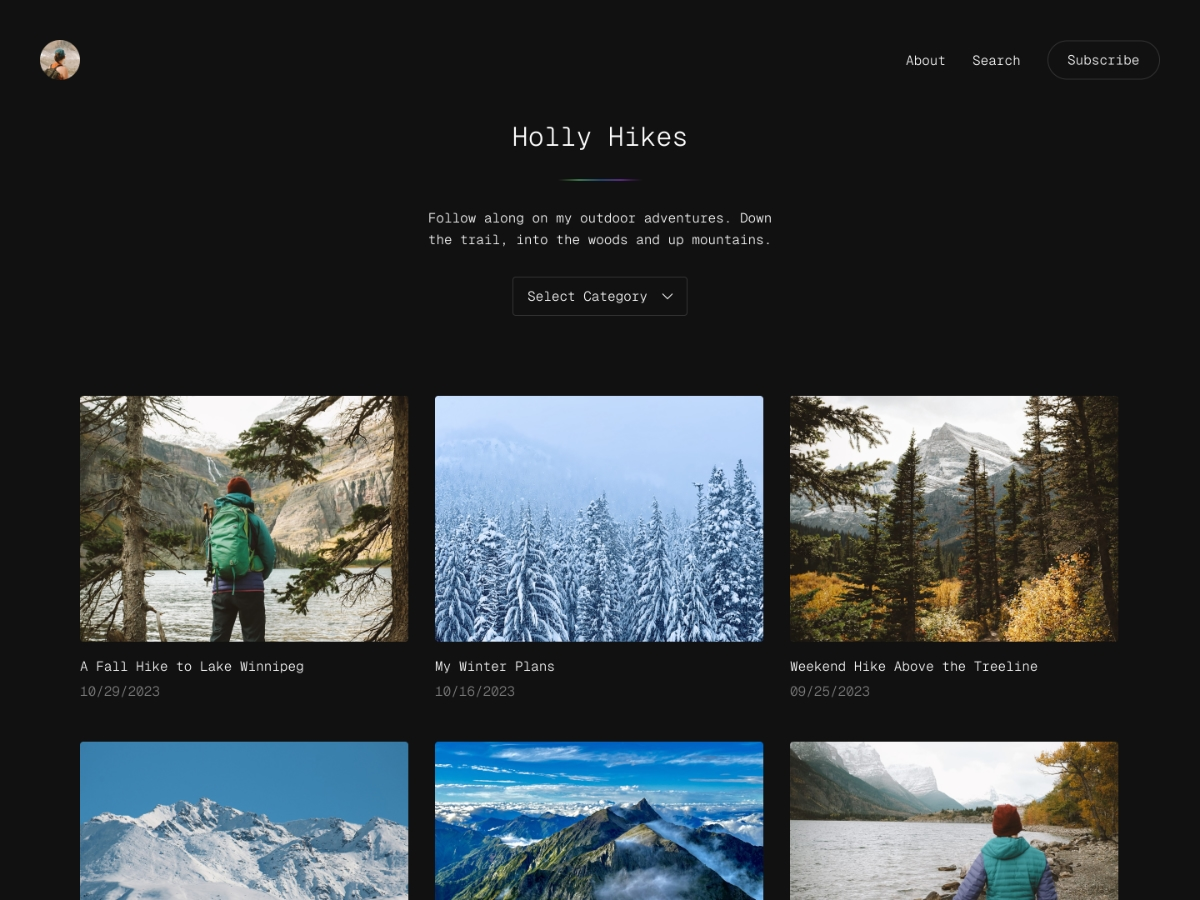
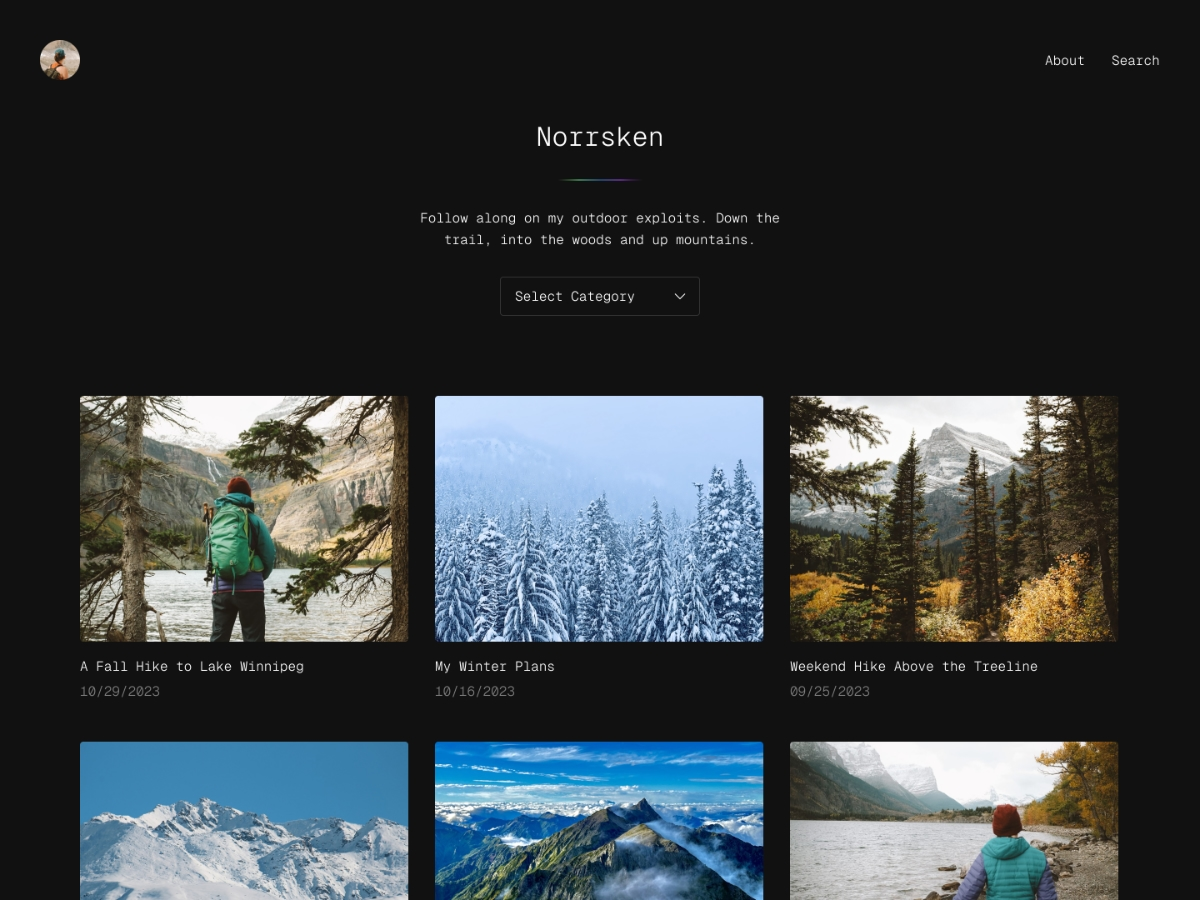
Theme meta, inverted style

diff --git a/style.css b/style.css
@@ -2,7 +2,7 @@
 Theme Name: Norrsken
 Text Domain: norrsken
 Version: 1.0.0
-Description: 
+Description: Norrsken is a simple block theme for blogs, designed to be an archive for all your digital things.
 Tags: one-column, custom-colors, custom-menu, custom-logo, editor-style, featured-images, full-site-editing, block-patterns, sticky-post, threaded-comments, translation-ready, wide-blocks, block-styles, style-variations, blog, portfolio, news
 Author: Anders Norén
 Author URI: https://andersnoren.se

diff --git a/functions.php b/functions.php
@@ -31,6 +31,7 @@ if ( ! function_exists( 'norrsken_block_styles' ) ) :
 		$core_block_styles = apply_filters( 'norrsken_wp_enqueue_block_style_blocks', array( 
 			'calendar', 
 			'categories', 
+			'navigation',
 			'paragraph', 
 			'post-comments-form',
 			'post-terms', 
@@ -136,7 +137,7 @@ if ( ! function_exists( 'norrsken_block_styles' ) ) :
 			array(
 				'is_default'	=> true,
 				'name'			=> 'norrsken-post-terms',
-				'label'			=> __( 'Norrsken', 'steve-jang' ),
+				'label'			=> __( 'Norrsken', 'norrsken' ),
 				'style_handle'	=> 'norrsken-post-terms'
 			)
 		);

diff --git a/README.md b/README.md
@@ -1,8 +1,8 @@
 # Norrsken
 
-Norrsken is a...
+Norrsken is a simple block theme for blogs, designed to be an archive for all your digital things.
 
-![Norrsken](https://github.com/andersnoren/norrsken/blob/main/screenshot.png)
+![Norrsken](https://github.com/andersnoren/norrsken/blob/main/screenshot.jpg)
 
 You can download the latest stable release of Norrsken [from WordPress.org](https://wordpress.org/themes/norrsken/).
 
@@ -19,7 +19,7 @@ Keep in mind that I maintain my themes in my spare time. Even though I deeply ap
 Do you want to support the continued development of Norrsken? You can send me a PayPal donation [here](https://www.paypal.com/cgi-bin/webscr?cmd=_donations&business=anders%40andersnoren%2ese&lc=US&item_name=Free%20WordPress%20Themes%20from%20Anders%20Noren&currency_code=USD&bn=PP%2dDonationsBF%3abtn_donateCC_LG%2egif%3aNonHosted).
 
 ## Requirements
-- WordPress 6.3+
+- WordPress 6.4+
 - PHP 7.0+
 - License: [GPLv2](https://www.gnu.org/licenses/gpl-2.0.html) or later
 
